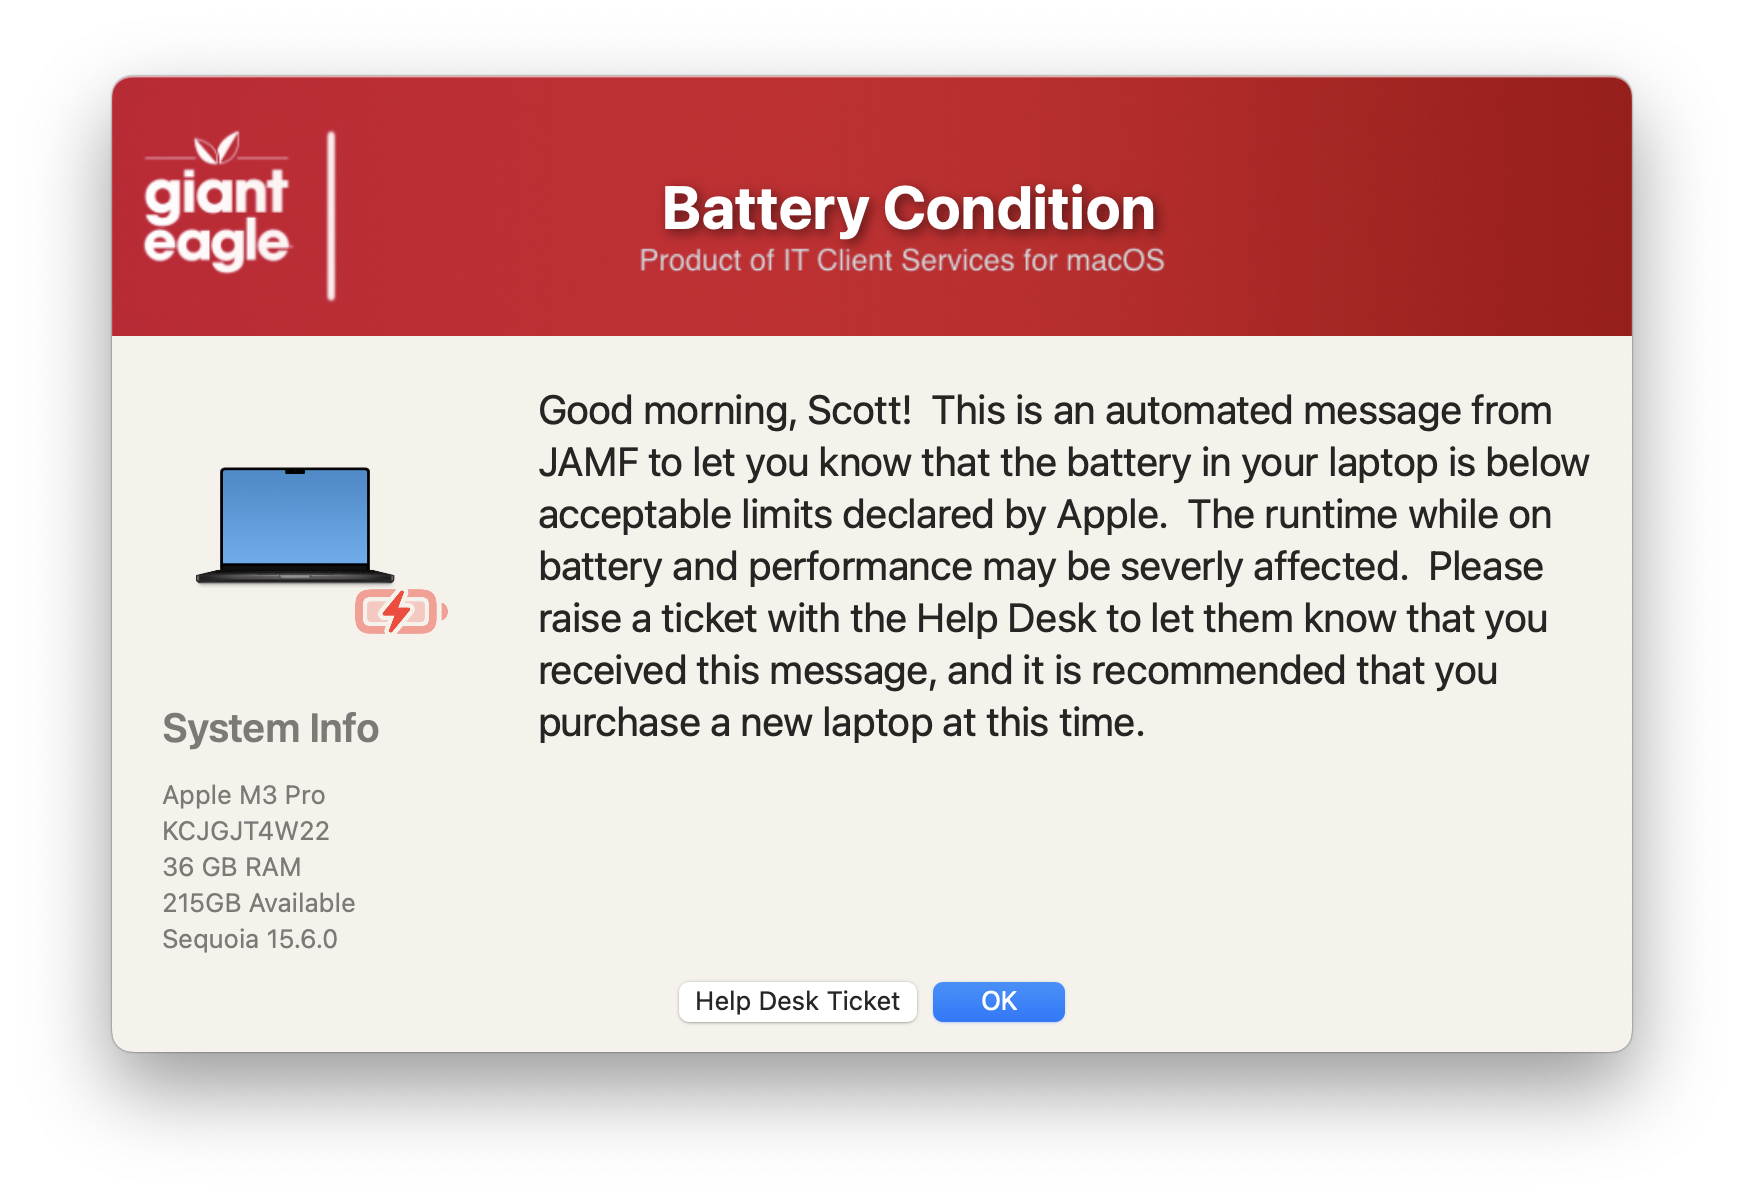
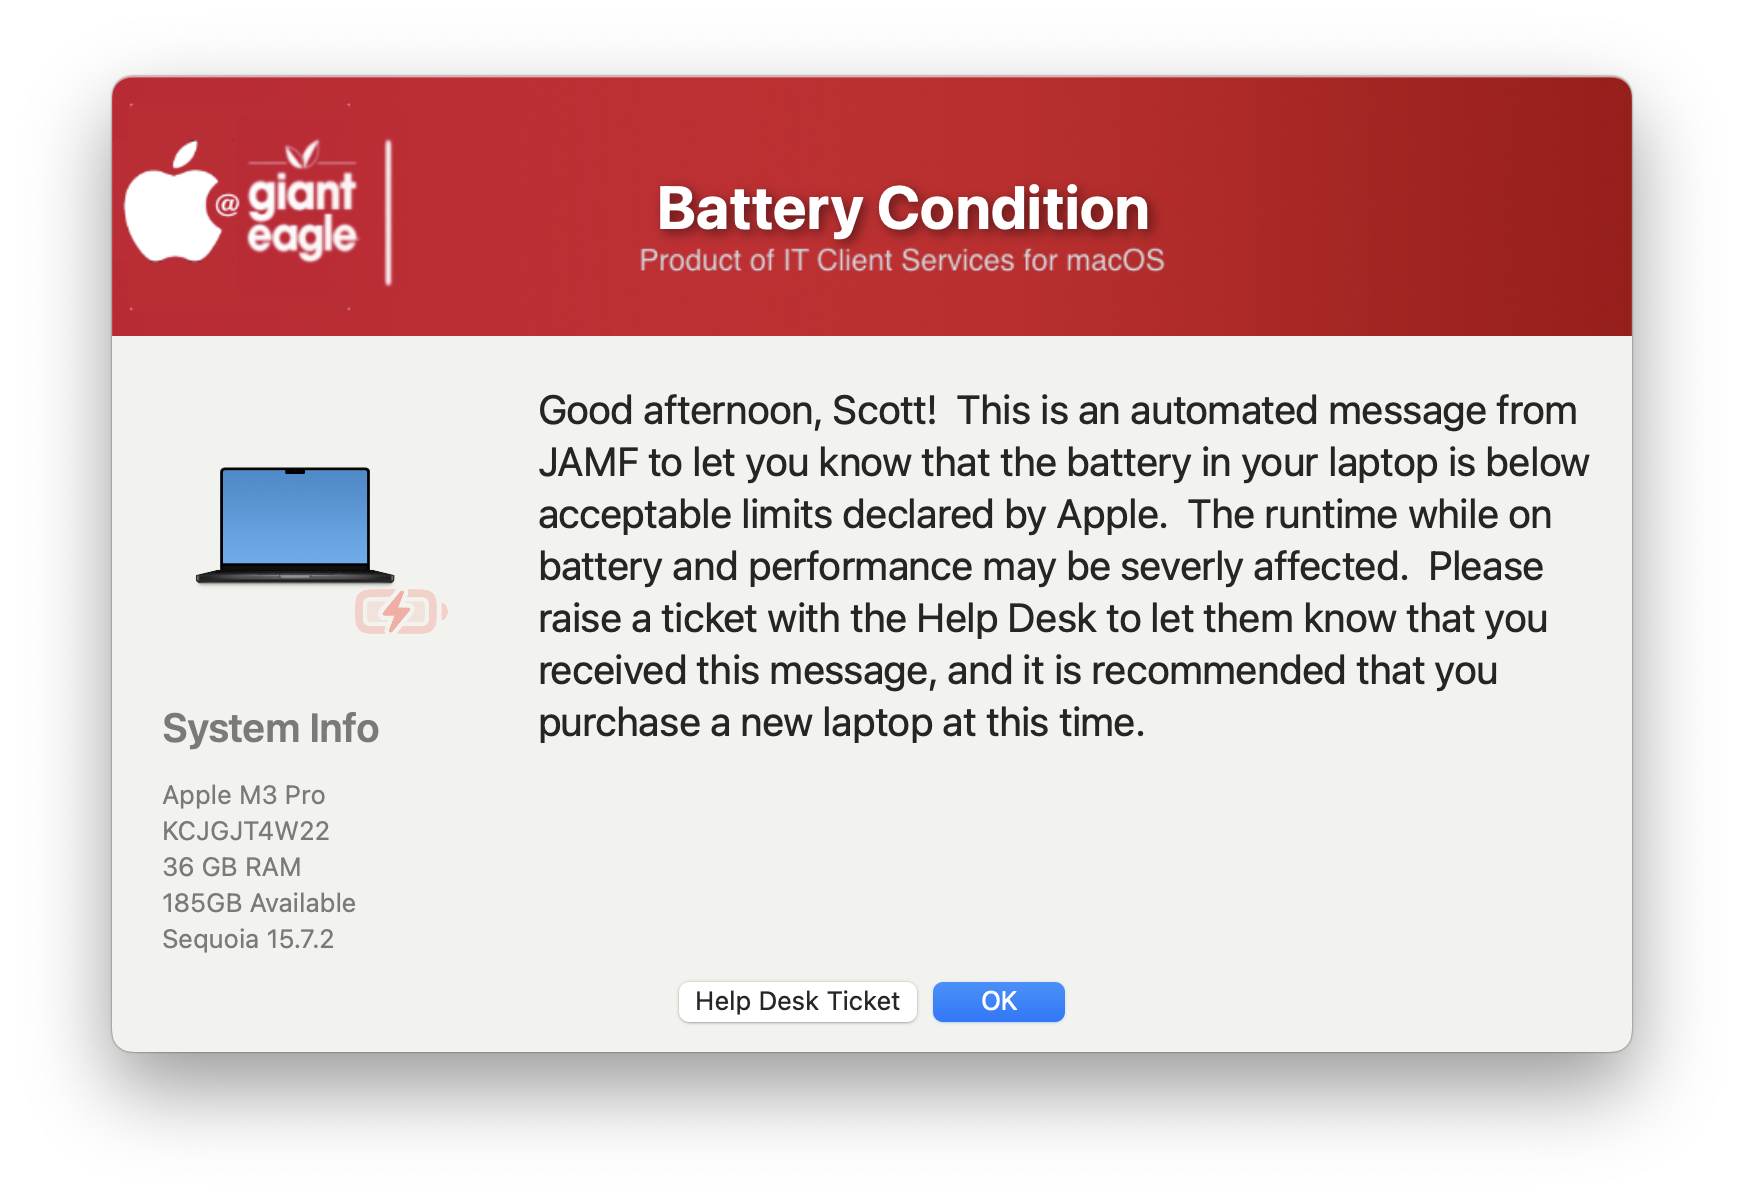
Show battery health / critical warning

diff --git a/BatteryInfo/README.md b/BatteryInfo/README.md
@@ -4,15 +4,22 @@ This dialog can display either the current battery status or the critial warning
 
 _If the battery condition is normal_
 
-![Normal Battery](/BatteryInfo/BatteryHealth.png)
+![Normal Battery](./BatteryHealth.png)
 
 _and if the battery is bad (critical)_
 
-![Critical Battery](/BatteryInfo/BatteryCritical.png
+![Critical Battery](./BatteryCritical.png
 )
 
 
-
-##### _v1.0 - Initial Commit_
-
-##### _v1.1 - Major code cleanup & documentation / Structred code to be more inline / consistent across all apps_
+#### 1.0 - Initial
+#### 1.1 - Code cleanup to be more consistent with all apps
+#### 1.2 - fix the SD_ICON reference in the display prompt
+#### 1.3 - Remove the MAC_HADWARE_CLASS item as it was misspelled and not used anymore...
+#### 1.4 - Changed the icon(s) and wording / Add Help Desk button if battery critical
+#### 1.5 - Swift dialog min requirements now 2.5.0 / Changed wording on critical message / New icons / Added display item for currently charging.
+#### 1.6 - Code cleanup
+####       Added feature to read in defaults file
+####       removed unnecessary variables.
+####       Bumped min version of SD to 2.5.0
+####       Fixed typos
